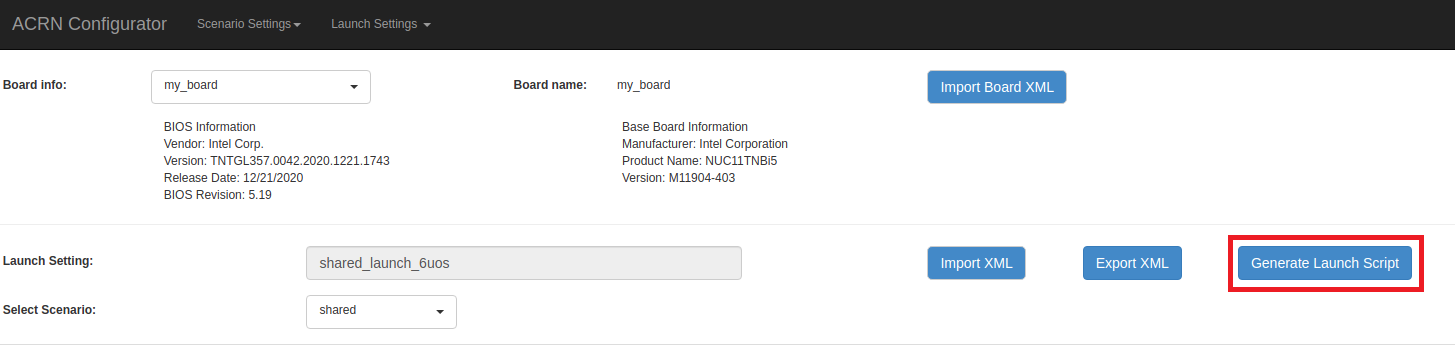
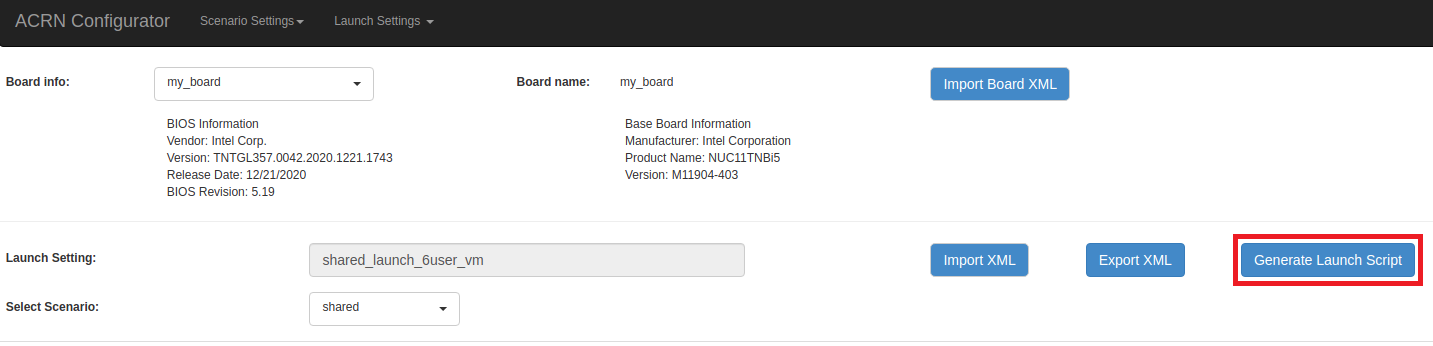
doc: terminology cleanup in GSG
- Replace SOS or Service OS with Service VM
- Replace UOS or User OS with User VM
- Capitalize ACRN Configurator and Board Inspector
- Clean up some of the grammar

diff --git a/doc/getting-started/getting-started.rst b/doc/getting-started/getting-started.rst
@@ -163,10 +163,10 @@ To set up the ACRN build environment on the development computer:
       cd ~/acrn-work
       git clone https://github.com/projectacrn/acrn-hypervisor.git
       cd acrn-hypervisor
-      git checkout v2.6
+      git checkout v2.7
 
       cd ..
-      git clone --depth 1 --branch release_2.6 https://github.com/projectacrn/acrn-kernel.git
+      git clone --depth 1 --branch release_2.7 https://github.com/projectacrn/acrn-kernel.git
 
 .. _gsg-board-setup:
 
@@ -180,7 +180,7 @@ information extracted from the target system. The file is used to configure the
 ACRN hypervisor, because each hypervisor instance is specific to your target
 hardware.
 
-You use the **board inspector tool** to generate the board
+You use the **Board Inspector tool** to generate the board
 configuration file.
 
 .. important::
@@ -192,7 +192,7 @@ configuration file.
 Install OS on the Target
 ============================
 
-The target system needs Ubuntu 18.04 to run the board inspector tool.
+The target system needs Ubuntu 18.04 to run the Board Inspector tool.
 
 To install Ubuntu 18.04:
 
@@ -248,7 +248,7 @@ Configure Target BIOS Settings
 Generate a Board Configuration File
 =========================================
 
-#. On the target system, install the board inspector dependencies:
+#. On the target system, install the Board Inspector dependencies:
 
    .. code-block:: bash
 
@@ -281,7 +281,7 @@ Generate a Board Configuration File
 
          GRUB_CMDLINE_LINUX_DEFAULT="quiet splash idle=nomwait iomem=relaxed intel_idle.max_cstate=0 intel_pstate=disable"
 
-      These settings allow the board inspector tool to
+      These settings allow the Board Inspector tool to
       gather important information about the board.
 
    #. Save and close the file.
@@ -293,7 +293,7 @@ Generate a Board Configuration File
          sudo update-grub
          reboot
 
-#. Copy the board inspector tool folder from the development computer to the
+#. Copy the Board Inspector tool folder from the development computer to the
    target via USB disk as follows:
 
    a. Move to the development computer.
@@ -311,7 +311,7 @@ Generate a Board Configuration File
       Confirm that only one disk name appears. You'll use that disk name in
       the following steps.
 
-   #. Copy the board inspector tool folder from the acrn-hypervisor source code to the USB disk:
+   #. Copy the Board Inspector tool folder from the acrn-hypervisor source code to the USB disk:
 
       .. code-block:: bash
 
@@ -322,7 +322,7 @@ Generate a Board Configuration File
 
    #. Insert the USB disk into the target system.
 
-   #. Copy the board inspector tool from the USB disk to the target:
+   #. Copy the Board Inspector tool from the USB disk to the target:
 
       .. code-block:: bash
 
@@ -330,13 +330,13 @@ Generate a Board Configuration File
          disk="/media/$USER/"$(ls /media/$USER)
          cp -r $disk/board_inspector ~/acrn-work
 
-#. On the target, load the ``msr`` driver, used by the board inspector:
+#. On the target, load the ``msr`` driver, used by the Board Inspector:
 
    .. code-block:: bash
 
       sudo modprobe msr
 
-#. Run the board inspector tool ( ``board_inspector.py``)
+#. Run the Board Inspector tool ( ``board_inspector.py``)
    to generate the board configuration file. This
    example uses the parameter ``my_board`` as the file name.
 
@@ -380,7 +380,7 @@ Generate a Board Configuration File
 Generate a Scenario Configuration File and Launch Scripts
 *********************************************************
 
-You use the **ACRN configurator** to generate scenario configuration files and
+You use the **ACRN Configurator** to generate scenario configuration files and
 launch scripts.
 
 A **scenario configuration file** is an XML file that holds the parameters of
@@ -388,18 +388,18 @@ a specific ACRN configuration, such as the number of VMs that can be run,
 their attributes, and the resources they have access to.
 
 A **launch script** is a shell script that is used to configure and create a
-User VM. Each User VM has its own launch script.
+post-launched User VM. Each User VM has its own launch script.
 
 To generate a scenario configuration file and launch scripts:
 
-#. On the development computer, install ACRN configurator dependencies:
+#. On the development computer, install ACRN Configurator dependencies:
 
    .. code-block:: bash
 
       cd ~/acrn-work/acrn-hypervisor/misc/config_tools/config_app
       sudo pip3 install -r requirements
 
-#. Launch the ACRN configurator:
+#. Launch the ACRN Configurator:
 
    .. code-block:: bash
 
@@ -407,7 +407,7 @@ To generate a scenario configuration file and launch scripts:
 
 #. Your web browser should open the website `<http://127.0.0.1:5001/>`__
    automatically, or you may need to visit this website manually.
-   The ACRN configurator is supported on Chrome and Firefox.
+   The ACRN Configurator is supported on Chrome and Firefox.
 
 #. Click the **Import Board XML** button and browse to the board configuration
    file ``my_board.xml`` previously generated. When it is successfully
@@ -461,9 +461,10 @@ To generate a scenario configuration file and launch scripts:
       .. image:: ./images/gsg_config_launch_default.png
          :class: drop-shadow
 
-   #. In the dialog box, select **shared_launch_6uos** as the default launch
-      setting and click **OK**. Because our sample ``shared`` scenario defines six
-      User VMs, we're using this ``shared_launch_6uos`` launch XML configuration.
+   #. In the dialog box, select **shared_launch_6user_vm** as the default launch
+      setting and click **OK**. Because our sample ``shared`` scenario defines
+      six User VMs, we're using this ``shared_launch_6user_vm`` launch XML
+      configuration.
 
       .. image:: ./images/gsg_config_launch_load.png
          :class: drop-shadow
@@ -480,10 +481,10 @@ To generate a scenario configuration file and launch scripts:
       .. image:: ./images/gsg_config_launch_save.png
          :class: drop-shadow
 
-   #. Confirm that ``launch_uos_id3.sh`` appears in the expected output
+   #. Confirm that ``launch_user_vm_id3.sh`` appears in the expected output
       directory::
 
-         ls ~/acrn-work/my_board/output/launch_uos_id3.sh
+         ls ~/acrn-work/my_board/output/launch_user_vm_id3.sh
 
 #. Close the browser and press :kbd:`CTRL` + :kbd:`C` to terminate the
    ``acrn_configurator.py`` program running in the terminal window.
@@ -510,7 +511,7 @@ Build ACRN
    .. code-block:: bash
 
       cd ~/acrn-work/acrn-kernel
-      cp kernel_config_uefi_sos .config
+      cp kernel_config_service_vm .config
       make olddefconfig
       make -j $(nproc) targz-pkg
 
@@ -525,19 +526,20 @@ Build ACRN
       .. code-block:: bash
 
          disk="/media/$USER/"$(ls /media/$USER)
-         cp linux-5.10.52-acrn-sos-x86.tar.gz $disk/
+         cp linux-5.10.65-acrn-service-vm-x86.tar.gz $disk/
          cp ~/acrn-work/acrn-hypervisor/build/hypervisor/acrn.bin $disk/
          cp ~/acrn-work/acrn-hypervisor/build/hypervisor/serial.conf $disk/
-         cp ~/acrn-work/my_board/output/launch_uos_id3.sh $disk/
+         cp ~/acrn-work/my_board/output/launch_user_vm_id3.sh $disk/
          cp ~/acrn-work/acpica-unix-20210105/generate/unix/bin/iasl $disk/
-         cp ~/acrn-work/acrn-hypervisor/build/acrn-2.6-unstable.tar.gz $disk/
+         cp ~/acrn-work/acrn-hypervisor/build/acrn-2.7-unstable.tar.gz $disk/
          sync && sudo umount $disk/
 
       Even though our sample default scenario defines six User VMs, we're only
       going to launch one of them, so we'll only need the one launch script.
 
-      .. note:: The :file:`serial.conf` is only generated if non standard vUARTs (not COM1~COM4)
-               are configured for Service VM in scenario XML file.
+      .. note:: The :file:`serial.conf` is only generated if non-standard
+         vUARTs (not COM1-COM4)
+         are configured for the Service VM in the scenario XML file.
 
    #. Insert the USB disk you just used into the target system and run these
       commands to copy the tar files locally:
@@ -545,25 +547,25 @@ Build ACRN
       .. code-block:: bash
 
          disk="/media/$USER/"$(ls /media/$USER)
-         cp $disk/linux-5.10.52-acrn-sos-x86.tar.gz ~/acrn-work
-         cp $disk/acrn-2.6-unstable.tar.gz ~/acrn-work
+         cp $disk/linux-5.10.65-acrn-service-vm-x86.tar.gz ~/acrn-work
+         cp $disk/acrn-2.7-unstable.tar.gz ~/acrn-work
 
    #. Extract the Service VM files onto the target system:
 
       .. code-block:: bash
 
          cd ~/acrn-work
-         sudo tar -zxvf linux-5.10.52-acrn-sos-x86.tar.gz -C / --keep-directory-symlink
+         sudo tar -zxvf linux-5.10.65-acrn-service-vm-x86.tar.gz -C / --keep-directory-symlink
 
       This tar extraction replaces parts of the Ubuntu installation we installed
-      and used for running the board inspector, with the Linux kernel we built
+      and used for running the Board Inspector, with the Linux kernel we built
       based on the board and scenario configuration.
 
    #. Extract the ACRN tools and images:
 
       .. code-block:: bash
 
-         sudo tar -zxvf acrn-2.6-unstable.tar.gz -C / --keep-directory-symlink
+         sudo tar -zxvf acrn-2.7-unstable.tar.gz -C / --keep-directory-symlink
 
    #. Copy a few additional ACRN files to the expected locations:
 
@@ -573,7 +575,7 @@ Build ACRN
          sudo cp $disk/acrn.bin /boot/acrn
          sudo cp $disk/serial.conf /etc
          sudo cp $disk/iasl /usr/sbin/
-         cp $disk/launch_uos_id3.sh ~/acrn-work
+         cp $disk/launch_user_vm_id3.sh ~/acrn-work
          sudo umount $disk/
 
 .. rst-class:: numbered-step
@@ -581,9 +583,10 @@ Build ACRN
 Install ACRN
 ************
 
-In the following steps, you will install serial configuration tool and configure GRUB on the target system.
+In the following steps, you will install the serial configuration tool and
+configure GRUB on the target system.
 
-#. Install serial configuration tool in the target system as follows:
+#. Install the serial configuration tool in the target system as follows:
 
    .. code-block:: bash
 
@@ -640,15 +643,15 @@ In the following steps, you will install serial configuration tool and configure
 
 #. Add the ACRN Service VM to the GRUB boot menu:
 
-   a. Edit the GRUB 40_custom file. The following command uses ``vi``, but
+   a. Edit the GRUB ``40_custom`` file. The following command uses ``vi``, but
       you can use any text editor.
 
       .. code-block:: bash
 
          sudo vi /etc/grub.d/40_custom
 
-   #. Add the following text at the end of the file. Replace ``<UUID>`` and
-      ``<PARTUUID>`` with the output from the previous step.
+   #. Add the following text at the end of the file. Replace ``UUID`` and
+      ``PARTUUID`` with the output from the previous step.
 
       .. code-block:: bash
          :emphasize-lines: 6,8
@@ -661,12 +664,10 @@ In the following steps, you will install serial configuration tool and configure
            search --no-floppy --fs-uuid --set "UUID"
            echo 'loading ACRN...'
            multiboot2 /boot/acrn/acrn.bin  root=PARTUUID="PARTUUID"
-           module2 /boot/vmlinuz-5.10.52-acrn-sos Linux_bzImage
+           module2 /boot/vmlinuz-5.10.65-acrn-service-vm Linux_bzImage
          }
 
-   #. Save and close the file.
-
-   #. Correct example image
+      Example:
 
       .. code-block:: console
 
@@ -678,8 +679,10 @@ In the following steps, you will install serial configuration tool and configure
            search --no-floppy --fs-uuid --set "3cac5675-e329-4cal-b346-0a3e65f99016"
            echo 'loading ACRN...'
            multiboot2 /boot/acrn/acrn.bin  root=PARTUUID="03db7f45-8a6c-454b-adf7-30343d82c4f4"
-           module2 /boot/vmlinuz-5.10.52-acrn-sos Linux_bzImage
+           module2 /boot/vmlinuz-5.10.65-acrn-service-vm Linux_bzImage
          }
+
+   #. Save and close the file.
 
 #. Make the GRUB menu visible when
    booting and make it load the Service VM kernel by default:
@@ -770,7 +773,7 @@ Launch the User VM
 
    .. code-block:: bash
 
-      vi ~/acrn-work/launch_uos_id3.sh
+      vi ~/acrn-work/launch_user_vm_id3.sh
 
 #. Look for the line that contains the term ``virtio-blk`` and replace the
    existing image file path with your ISO image file path.  In the following
@@ -796,10 +799,10 @@ Launch the User VM
 
    .. code-block:: bash
 
-      sudo chmod +x ~/acrn-work/launch_uos_id3.sh
+      sudo chmod +x ~/acrn-work/launch_user_vm_id3.sh
       sudo chmod +x /usr/bin/acrn-dm
       sudo chmod +x /usr/sbin/iasl
-      sudo ~/acrn-work/launch_uos_id3.sh
+      sudo ~/acrn-work/launch_user_vm_id3.sh
 
 #. It will take a few seconds for the User VM to boot and start running the
    Ubuntu image.  Confirm that you see the console of the User VM on the Service
